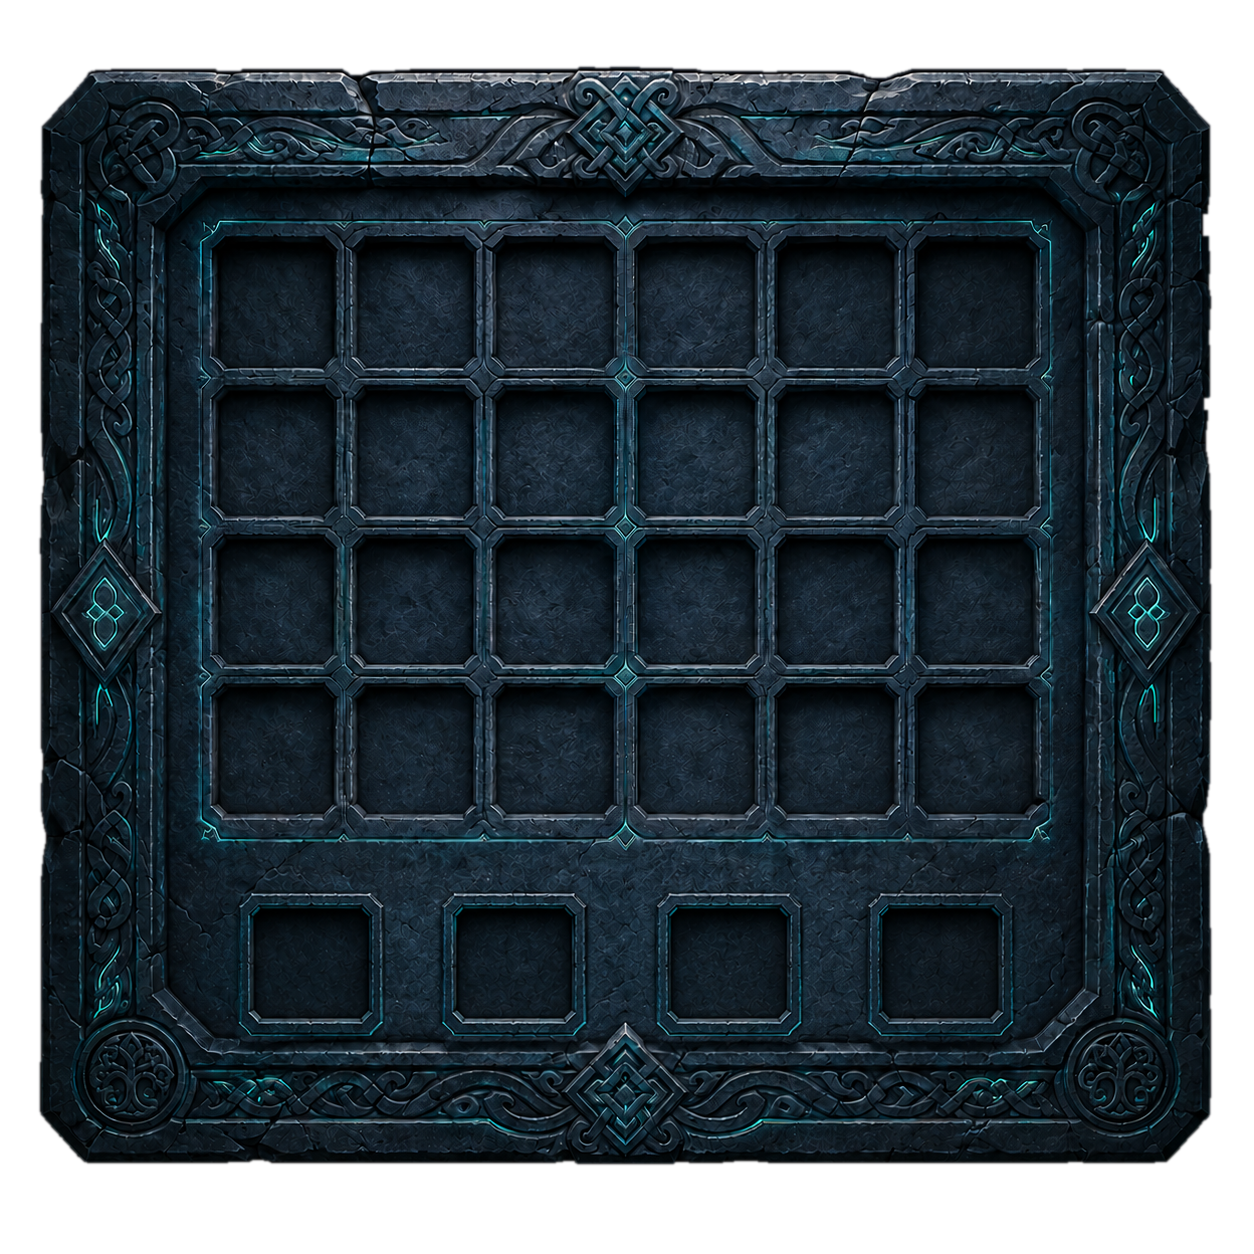
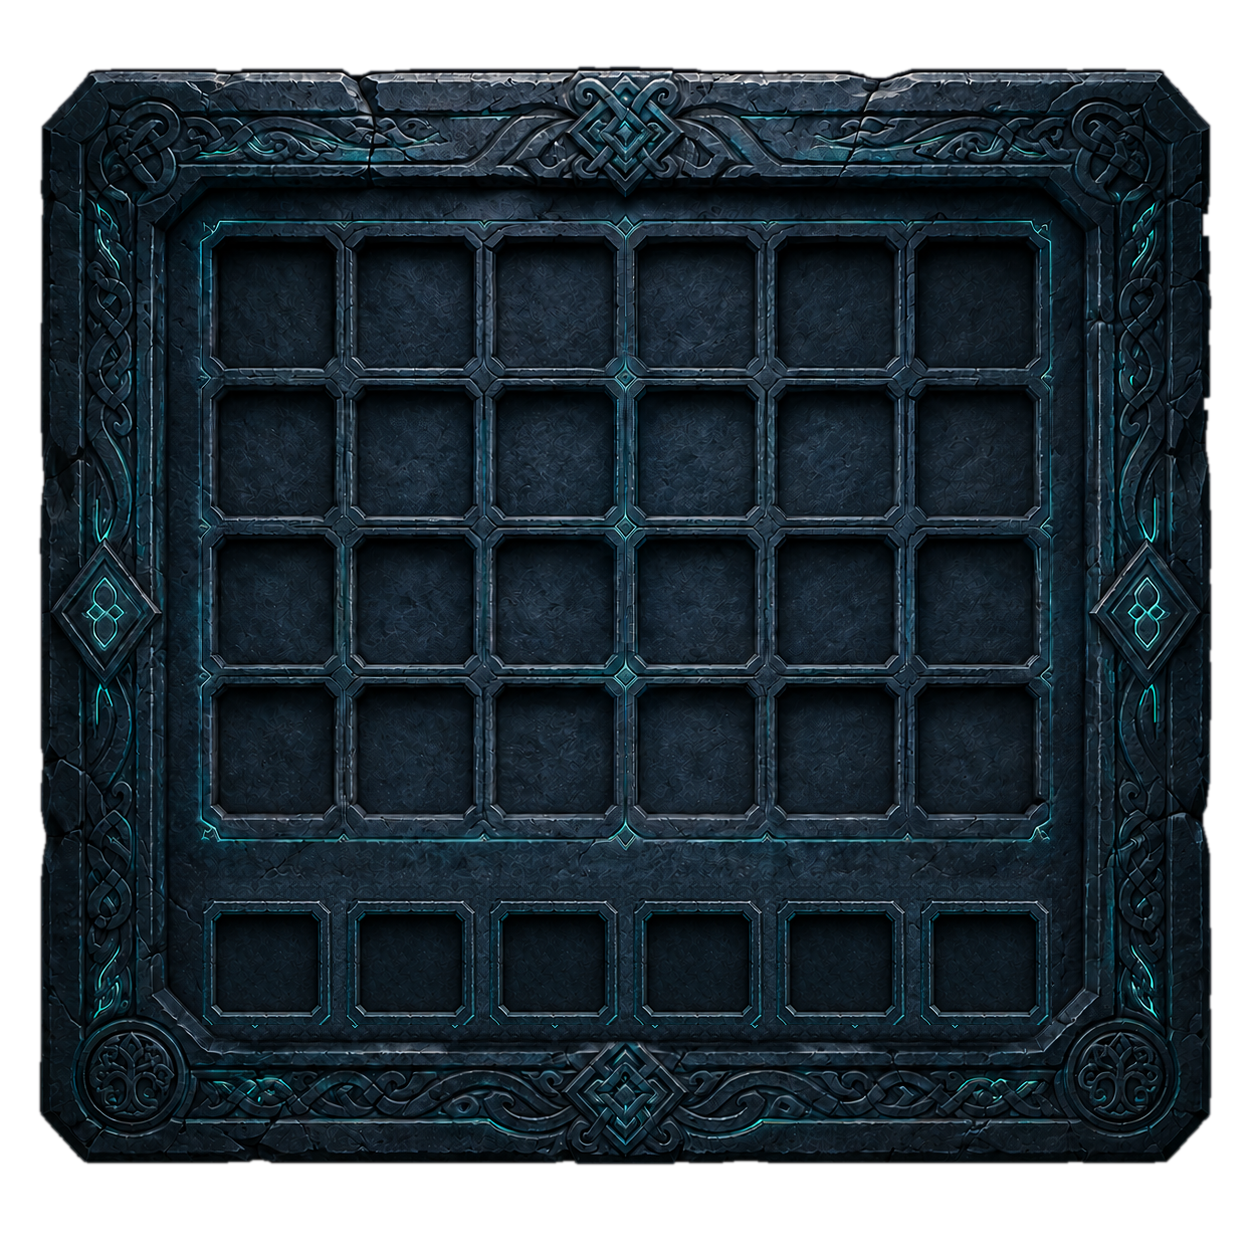
La plaque : six runes au lieu de quatre, la grille redevient un clavier
Les six emplacements suivent la grille des runes. Une même rune peut
resservir dans le mot, et l'emplacement est réservé dès le clic pour que
six clics rapides ne s'entassent pas dans la même case pendant le vol.

Changed region(s): [[0.1555, 0.6842, 0.8397, 0.8397]]

diff --git a/index.html b/index.html
@@ -162,7 +162,7 @@ button:hover{background:rgba(94,224,160,.12);box-shadow:0 0 20px rgba(94,224,160
 .menu.open.drakkar .plaque{opacity:1;transform:none;transition-delay:.78s}
 .plaque img{display:block;width:100%;filter:drop-shadow(0 18px 40px rgba(0,0,0,.6))}
 .pgrid{position:absolute;left:16.1%;top:17.3%;width:67.8%;height:49.6%;display:grid;grid-template-columns:repeat(6,1fr);grid-template-rows:repeat(4,1fr);gap:1.35%}
-.pslots{position:absolute;left:19.6%;top:70.2%;width:61.2%;height:11.6%;display:grid;grid-template-columns:repeat(4,1fr);gap:5.4%}
+.pslots{position:absolute;left:16.1%;top:71.6%;width:67.8%;height:10.1%;display:grid;grid-template-columns:repeat(6,1fr);gap:1.35%}
 .pc{position:relative;display:flex;align-items:center;justify-content:center;cursor:pointer}
 .pgl{position:absolute;inset:0;border-radius:4px;background:radial-gradient(ellipse at center,rgba(94,224,160,.32),rgba(94,224,160,.06) 58%,transparent 74%);opacity:0;transition:opacity .3s ease}
 .pc:hover .pgl{opacity:1}
@@ -171,9 +171,6 @@ button:hover{background:rgba(94,224,160,.12);box-shadow:0 0 20px rgba(94,224,160
 .pr{font-family:'Noto Sans Runic',sans-serif;font-size:23px;line-height:1;color:#3E7F72;text-shadow:0 1px 0 rgba(0,0,0,.8);transition:color .3s ease,text-shadow .3s ease,transform .4s cubic-bezier(.2,.8,.2,1);animation:pulseR 5s ease-in-out infinite}
 @keyframes pulseR{0%,100%{opacity:.72}50%{opacity:1}}
 .pc:hover .pr{color:#E9FFF6;text-shadow:0 0 10px #5EE0A0,0 0 26px rgba(94,224,160,.8);transform:scale(1.16)}
-.pc.used{cursor:default}
-.pc.used .pgl{opacity:0!important}
-.pc.used .pr{color:#1C2C42;text-shadow:none;animation:none;transform:scale(.86)}
 .pfl{position:absolute;inset:-8%;border-radius:5px;background:radial-gradient(circle,rgba(233,239,243,.9),rgba(94,224,160,.4) 40%,transparent 70%);opacity:0;pointer-events:none}
 .pc.hit .pfl{animation:hit .55s ease-out}
 @keyframes hit{0%{opacity:1;transform:scale(.4)}100%{opacity:0;transform:scale(1.5)}}
@@ -439,7 +436,7 @@ button:hover{background:rgba(94,224,160,.12);box-shadow:0 0 20px rgba(94,224,160
 const SALT='SKAL2026:';
 const HASH={
[6 lines of base64/hex data omitted]
@@ -675,7 +672,7 @@ document.getElementById('mval').onclick=async()=>{
   const i=sel;if(typeof i!=='number'||solved.has(i))return;
   if(i===0){
     const full=PS.filter(x=>x.classList.contains('full'));
-    if(full.length<4)return;
+    if(full.length<PS.length)return;
     const word=full.map(x=>RL[x.dataset.r]||'').join('');
     if(!(await checkv(word,HASH.plaque))){reject();return}
   }
@@ -712,8 +709,8 @@ function pfly(from,to,ch){
 function syncVal(){
   if(!menu.classList.contains('drakkar'))return;
   const n=PS.filter(x=>x.classList.contains('full')).length,v=document.getElementById('mval');
-  v.disabled=n<4||solved.has(0);
-  v.textContent=solved.has(0)?'ÉPREUVE VALIDÉE':(n<4?'PLACEZ QUATRE RUNES':"VALIDER L'ÉPREUVE →");
+  v.disabled=n<PS.length||solved.has(0);
+  v.textContent=solved.has(0)?'ÉPREUVE VALIDÉE':(n<PS.length?'PLACEZ SIX RUNES':"VALIDER L'ÉPREUVE →");
 }
 function buildPlaque(){
   if(pBuilt)return;pBuilt=true;
@@ -721,20 +718,24 @@ function buildPlaque(){
   RUNES.forEach((r,i)=>{const c=document.createElement('div');c.className='pc';c.dataset.r=r;
     c.innerHTML=`<div class="pgl"></div><div class="prg" style="animation-duration:${11+i%5*3}s;animation-direction:${i%2?'reverse':'normal'}"></div><div class="pfl"></div><span class="pr" style="animation-delay:${(i*370)%5000}ms">${r}</span>`;
     g.appendChild(c)});
-  for(let i=0;i<4;i++){const x=document.createElement('div');x.className='ps';x.innerHTML='<div class="psg"></div><span class="psr"></span><div class="pdash"></div>';s.appendChild(x)}
+  for(let i=0;i<6;i++){const x=document.createElement('div');x.className='ps';x.innerHTML='<div class="psg"></div><span class="psr"></span><div class="pdash"></div>';s.appendChild(x)}
   PS=[...s.children];
   g.addEventListener('click',e=>{
-    const c=e.target.closest('.pc');if(!c||c.classList.contains('used')||solved.has(0))return;
-    const sl=PS.find(x=>!x.classList.contains('full'));if(!sl)return;
-    c.classList.add('used','hit');setTimeout(()=>c.classList.remove('hit'),600);
+    // la grille reste un clavier : une même rune peut servir deux fois dans un mot
+    const c=e.target.closest('.pc');if(!c||solved.has(0))return;
+    // l'emplacement est réservé dès le clic : six runes cliquées coup sur coup
+    // ne s'entassent pas dans la même case le temps que la rune vole.
+    const sl=PS.find(x=>!x.classList.contains('full')&&!x.dataset.busy);if(!sl)return;
+    sl.dataset.busy='1';
+    c.classList.add('hit');setTimeout(()=>c.classList.remove('hit'),600);
     pfly(c.querySelector('.pr'),sl,c.dataset.r);
-    setTimeout(()=>{sl.classList.add('full');sl.dataset.r=c.dataset.r;sl.dataset.src=[...g.children].indexOf(c);sl.querySelector('.psr').textContent=c.dataset.r;syncVal()},460);
+    setTimeout(()=>{delete sl.dataset.busy;sl.classList.add('full');sl.dataset.r=c.dataset.r;sl.dataset.src=[...g.children].indexOf(c);sl.querySelector('.psr').textContent=c.dataset.r;syncVal()},460);
   });
   s.addEventListener('click',e=>{
     const sl=e.target.closest('.ps');if(!sl||!sl.classList.contains('full')||solved.has(0))return;
     const c=g.children[sl.dataset.src];
     sl.classList.remove('full');sl.querySelector('.psr').textContent='';
-    if(c){pfly(sl,c.querySelector('.pr'),c.dataset.r);setTimeout(()=>c.classList.remove('used'),380)}
+    if(c)pfly(sl,c.querySelector('.pr'),c.dataset.r);
     syncVal();
   });
 }
@@ -748,7 +749,7 @@ function reject(){
     PS.forEach(s=>{
       if(!s.classList.contains('full'))return;
       const c=g.children[s.dataset.src];
-      if(c){pfly(s,c.querySelector('.pr'),s.dataset.r);setTimeout(()=>c.classList.remove('used'),380)}
+      if(c)pfly(s,c.querySelector('.pr'),s.dataset.r);
       s.classList.remove('full','bad');s.querySelector('.psr').textContent='';
     });
     syncVal();
